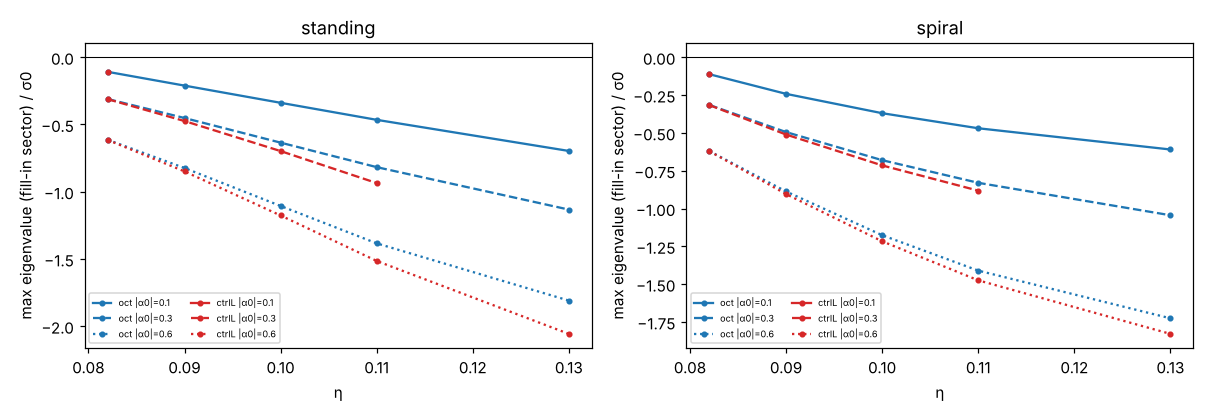
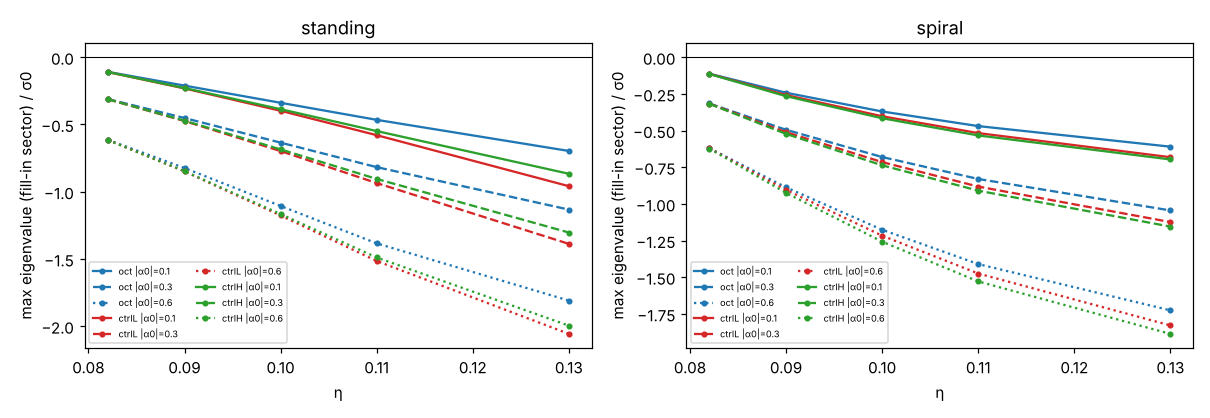
v6: REPORT_v6, knob table/figures, stripe-ratio unit test
Claude-Session: https://claude.ai/code/session_01SgnFkswyUKdYCWjKRVCaTY

diff --git a/scripts/v6_knob_table.py b/scripts/v6_knob_table.py
@@ -14,7 +14,16 @@ for fn in sorted(glob.glob("results_v6/knob/*_t0.?.json")):
                         w_peak_over_s0=des.get("peak_over_s0"), w_sector_max=json.dumps({k: round(v, 1) for k, v in des.get("sector_max_over_s0", {}).items()}))
             if s.get("exists"):
                 fa = s["fillin"]
-                rows.append(dict(base, state=s["type"], exists=True, s=s["s"], lam_f_max_over_s0=fa["lam_full_max"], alpha=fa["alpha"], beta=fa["beta"], qprod=fa["qprod"], Lam2=fa["Lam2"]))
+                sig2 = 1.0
+                a0 = -e["stripe"]["alpha"]; b0 = -e["stripe"]["beta"]
+                Xs = a0 + fa["alpha"]; Ys = b0 + fa["beta"]   # = α0-α(s*), β0-β(s*) 의 할선 (σ0 단위, 부호: 양수면 감쇠 증가)
+                Xs, Ys = -(fa["alpha"] + a0) * -1 * -1, -(fa["beta"] + b0) * -1 * -1
+                Xs = -(fa["alpha"] - (-a0)); Ys = -(fa["beta"] - (-b0))
+                Qs = fa["qprod"] / (d.get("sigma0", 4.112e-4) ** 2)
+                den = (np.sqrt(max(a0 * Ys, 0)) + np.sqrt(max(b0 * Xs, 0))) ** 2
+                Rsec = Qs / den if (den > 0 and Xs > 0 and Ys > 0) else float("nan")
+                rows.append(dict(base, state=s["type"], exists=True, s=s["s"], lam_f_max_over_s0=fa["lam_full_max"], alpha=fa["alpha"], beta=fa["beta"], qprod=fa["qprod"], Lam2=fa["Lam2"],
+                                 Xs_over_s0=Xs, Ys_over_s0=Ys, Q_over_s0sq=Qs, R_secant=Rsec))
             else:
                 rows.append(dict(base, state=s.get("seed"), exists=False, note=s.get("note", "")))
 keys = sorted({k for r in rows for k in r})

diff --git a/ring_sim/tests/test_v6.py b/ring_sim/tests/test_v6.py
@@ -69,3 +69,26 @@ def test_cell12_jacobian_matches_finite_difference():
     fd = (c.residual(X + dx, Lb) - c.residual(X - dx, Lb)) / 2
     lin = (J @ dx.T.reshape(-1)).reshape(c.M, 16).T
     assert np.abs(fd - lin).max() < 1e-9 * max(1, np.abs(lin).max()) + 1e-12
+
+
+def test_stripe_cross_saturation_ratio_is_two():
+    """줄무늬 상태에서 바깥 교차계수 비 g_cc'/g = (σ_lin(c') - α0)/σ_lin(c) ≈ 2 (Q000 = 0 설계)"""
+    import sys, os
+    sys.path.insert(0, os.path.join(os.path.dirname(__file__), "..", "..", "scripts"))
+    from v3_stageA import setup, A_SAT, CASES
+    from ring_sim.bloch import seed_state, newton
+    from ring_sim import fillin as F
+    par, s0, k0, (c0, ck), lat = setup("oct", 0.10)
+    X = seed_state(c0, A_SAT, ab_frac=0.0, rng=np.random.default_rng(3))
+    X, r, _ = newton(c0, X)
+    assert r < 1e-10
+    J = ck.jacobian(X[:4], c0)
+    U = F.sector_transform(ck.M)
+    Jt = U @ J @ U.conj().T
+    jc = ck.lookup[(1, 0)]
+    R, Lf = F.basis_vectors(ck, par, [(jc, 0)])
+    lam, M, parts, M0 = F.self_consistent(Jt, R, Lf)
+    s_c = F.top_pair(par, 0, c0.q[c0.lookup[(1, 1)]])[0]
+    s_cp = F.top_pair(par, 0, ck.q[jc])[0]
+    ratio = (s_cp - lam) / s_c
+    assert abs(ratio - 2.0) < 0.05

diff --git a/REPORT_v6.md b/REPORT_v6.md
@@ -1,0 +1,112 @@
+# REPORT v6: fill-in 판정식의 PDE 검증과 선택의 설계
+
+의뢰서 v6의 과제 1(유효 계수 추출과 판정식 검증)과 과제 2(|α₀|를 줄이는 손잡이 시연)를 수행한 결과이다. 모형·매개변수는 v3·v4와 같다. 정확 격자는 8회 C_x = 10, L(1.82) C_x = 26, H(1.87) C_x = 32이고, fill-in 부분공간은 Bloch 오프셋 κ = b′ 셀이다. 에너지(고유값)는 σ₀ = 4.112×10⁻⁴ 단위이다.
+
+## 1. 결론 (판정 규칙 적용)
+
+**판정식: 부분 확인.**
+- 2×2 유효 문제의 구조(c′ 하나와 b′ 하나, 정상파형이면 c′와 결합하는 b′ 조합 하나)는 맞다. 실제 계수로 만든 2×2 환원의 고유값이 전체 Galerkin 고유값과 모든 사례·η에서 0.001σ₀ 이내로 일치하고, Schur 보수의 자기 일관 고유값은 10⁻¹⁰σ₀ 이내로 일치한다(재현 시험 1 통과).
+- 줄무늬(s = 0)에서 얻은 |α₀|, |β₀|와 s에 대한 선형 맞춤 X, Y, Q로 만든 판정식 Λ_f(s)는 η ≤ 0.10에서 전체 λ_f를 0.04σ₀ 이내로 재현한다. η = 0.11, 0.12, 0.13에서는 최대 0.13, 0.32, 0.76σ₀ 벗어난다(의뢰서 기준 0.1σ₀ 초과). 원인은 α(s), β(s)의 s에 대한 2차항이며, 2차 보정을 포함한 형태가 필요하다(3.3절).
+- 판정비 R은 모든 사례, 정상파형·나선형에서 0.059–0.121로 1보다 훨씬 작다. 이는 v3 범위(η = 0.082–0.13)에서 fill-in이 닫혀 있다는 PDE 결과와 부호가 일치한다.
+
+**손잡이 시연: fill-in이 열리지 않았다.** (w, y) 매개 종으로 |α₀|를 목표값 0.6, 0.3, 0.1σ₀로 낮추어도(γ를 보정해 측정 |α₀|가 목표와 일치) 90개 (사례 × 목표 × η × 마름모 유형) 모두에서 fill-in 최대 고유값이 음수였다(최댓값 −0.108σ₀, 8회 목표 0.1, η = 0.082). 이는 의뢰서의 예측("어느 지점에서 λ_f > 0")과 다르다. 손잡이는 |α₀|뿐 아니라 X, Y를 약 30% 줄이고 결합 곱 Q를 약 3배 키워 판정비를 0.08에서 최대 0.66까지 올렸지만 1에는 못 미쳤다. 따라서 진입 조건은 충족했으나 "열린 경우에만 한다"는 의뢰서 규정에 따라 직접 시뮬레이션은 하지 않았다. 8회와 대조군의 반응 차이는 작았다(R_secant 0.61–0.66, 목표 0.1, η = 0.10). 즉 공명 판별은 이 손잡이 수준에서 시험할 수 없었다.
+
+## 2. 과제 1
+
+### 2.1 방법
+
+- 선형화 연산자 J = L + N′(u*) (κ = b′ 셀, 8M × 8M)를 층 푸리에 섹터 기저 (모드 j, 종 u/v, 섹터 p)로 바꾼다. 이 기저에서 L은 (j, p)마다 2×2 블록으로 대각화된다.
+- 활성 기저 P: c′ = 모드 (1,0)의 p = 0 최대 성장 고유벡터, b′ = 모드 (0,0)의 p = 1, 3(정상파형은 둘, 나선형은 해당 섹터 하나). 좌·우 고유벡터를 l^H r = 1로 쌍직교 정규화했다. 1:2 채널 시험에서는 p = 0, |k|² ≈ K* = (2/ρ)²q₀에 가장 가까운 모드를 P에 더했다(κ = b′ 셀에는 2k_{b′}가 없어서 정의를 이렇게 택했다).
+- M_eff(λ) = P L P − P L Q (Q L Q − λ)^{-1} Q L P를 자기 일관 λ로 푼다. 고정점이 여러 개(각 고유값)여서 초기값을 c′ 계열 기저 고유값(`lam0='bare'`)으로 정했다.
+- 계수: α = M_eff[c′, c′], β = b′ 블록의 고유쌍 중 c′와 가장 강하게 결합하는 것(|q_i| 최대)의 고유값, 결합 곱 Q_{c′}Q_{b′} = (M_cb r)(l^H M_bc). 정상파형에서 b′ 블록의 최대 고유값에 해당하는 조합은 반사 대칭상 c′와 결합하지 않아 결합 곱이 0이 되므로(초기 구현에서 이를 확인하고 수정), 결합이 가장 큰 고유쌍을 택했다.
+- s에 대한 맞춤: 줄무늬 상태(c 위상 맞춤)에서 마름모 상태로 가는 진폭 스캔 f = 0, 0.25, …, 1(c의 배수 모드는 f², 그 밖은 f 가중)으로 α(s), β(s), Q(s)를 구하고 α(s) = −|α₀| − X s, β(s) = −|β₀| − Y s, Q = Q_c s로 맞췄다. f = 0은 실제 줄무늬 상태이다.
+
+### 2.2 구조적 사실 (예측 확인)
+
+| 항목 | 예측 | 측정 |
+| --- | --- | --- |
+| g_{cc′}/g (8회, η = 0.10) | 2 | 2.009 |
+| Q_{1×3→0}/Q_{0×1→1} | 2 | 2.000 (정확, `test_v6.py`) |
+| Q_{0×0→0} | 0 | < 10⁻¹² |
+| \|α₀\|/σ₀ | 1 | 8회 1.09, L 1.06, H 1.01 (c′가 고리에서 약간 벗어나 σ_lin(c′) = 0.918σ₀) |
+
+### 2.3 계수 표 (`results_v6/coeffs.csv`, 첫 번째 분기)
+
+| 사례 | \|α₀\|/σ₀ | \|β₀\|/σ₀ (η = 0.082 → 0.13) | X/10⁴ (σ₀ 단위/s) | R |
+| --- | --- | --- | --- | --- |
+| 8회 | 1.09 | 2.83 → 2.58 | 7.7–9.7 | 0.060–0.090 |
+| L | 1.06 | 2.88 → 2.68 | 7.5–9.7 | 0.061–0.089 |
+| H | 1.01 | 2.78 → 2.45 | 7.5–9.6 | 0.059–0.092 |
+
+세 사례의 계수 차이는 작다(공명 대 대조군: 예측 "계수 차이가 작다"와 일치).
+
+### 2.4 재현 정도 (그림 `lambda_f_full_vs_formula.png`, `coefficient_fits_oct_eta0.10.png`, `R_vs_eta.png`)
+
+| η | 판정식과 전체 λ_f의 최대 차이 (σ₀) |
+| --- | --- |
+| 0.082 | 0.000 |
+| 0.085 | 0.001 |
+| 0.09 | 0.007 |
+| 0.10 | 0.041 |
+| 0.11 | 0.127 |
+| 0.12 | 0.316 |
+| 0.13 | 0.756 |
+
+- 오차가 η와 함께 커지는 것은 마름모 진폭 s가 커지면서 α(s), β(s)가 선형에서 벗어나기 때문이다(CSV의 `quad_alpha`, `quad_beta`).
+- λ_f(η)의 값 자체(전체 계산)는 −1.1σ₀(η = 0.082)에서 −5.9σ₀(η = 0.13)까지 모두 음수이고, 정상파형과 나선형이 같은 경향이다.
+- 같은 η에서 여러 정상파형 분기가 있어(같은 c, 다른 a/b 진폭 분배) 두 번째 이후 분기는 별도 행으로 남겼고, 그 중 일부는 결합 곱이 음수로 나와 R이 정의되지 않는다(`branch` 열).
+
+### 2.5 채널 분해 (`channels.csv`)
+
+8회 η = 0.10 정상파형: X 기여는 직접항이 거의 전부이다(직접 9.9×10⁴, 총합 9.5×10⁴, Q 채널 각각 |기여| < 6×10²). Y 기여는 직접항 1.1×10⁵ 위에 모드 (−1,−1)(|k|/k₀ = 0.94, 섹터 1, +7.6×10³)와 (−1,0)(0.42, 섹터 2, −7.5×10³), (−1,−1) 섹터 3(−6.1×10³)이 큰 기여를 하며 서로 상쇄한다. 채널 합이 맞춤 X, Y와 0.3% 이내로 일치한다. 따라서 어떤 노예 채널이 fill-in을 막는 것이 아니라 마름모 모드와의 직접 교차 포화가 대부분이다(의뢰서 예측 "정상파형에서 1:2 채널이 X 또는 Y를 키운다"는 확인되지 않음). 1:2 모드를 P에 넣어도 α, β는 10⁻³σ₀ 이내로 변하지 않았다(Q는 이 경우에도 자기 일관 고유값에는 영향 없음).
+
+## 3. 과제 2
+
+### 3.1 손잡이 설계 (`scripts/v6_knob.py`)
+
+(w_n, y_n) 층별 스칼라 쌍, u 방정식에 −γ w_n u_n 추가, w 방정식에 β_w u_n²(β_w = 1, γ < 0이 협동 부호). 동역학 (a_w, b_w, d_w) = (·, 1.6, 1.5), D_w = q₀/K₋, D_y = D_w·D_v로 p = 0 최대 성장이 K₋ = 4 sin²θ*·q₀(8회 0.586, L 0.688, H 0.503 q₀)에 오도록 하고, (a_w, D_y)를 풀어 최대 성장을 −3σ₀로, 봉우리 위치를 K₋로 맞췄다. κ_w = κ_y = 1로 p ≠ 0 섹터의 최대 성장은 −4.9×10³σ₀ 이하(강한 안정)이다. u, v의 σ₀, σ₁은 선형 결합이 없어 변하지 않는다.
+
+- **설계 변경:** 처음에는 안정 여유를 0.3σ₀로 두었으나, w 극이 c′ 준위(≈ −1σ₀) 가까이 있어 자기 일관 λ가 다른 고유값으로 넘어가 α₀(γ)가 비단조(예: ctrlL에서 −1.37 → −0.03)였다. 그때의 "fill-in 열림"(8회 η = 0.082에서 +0.06σ₀)은 이 인공물이었고, 여유를 3σ₀로 늘리고 c′ 계열 고유값을 따라가도록 고쳐 모두 다시 계산했다. 최종 결과만 보고한다.
+- γ 보정: η = 0.10 줄무늬에서 α₀/σ₀ = −목표가 되도록 γ를 푼다(목표 0.6 / 0.3 / 0.1에서 γ: 8회 −4.52 / −8.12 / −10.9 ×10⁻⁴, L −4.61 / −8.46 / −11.4 ×10⁻⁴, H −3.88 / −7.50 / −10.3 ×10⁻⁴). 같은 목표 |α₀|를 모든 사례에 적용했고 η = 0.082에서도 측정 |α₀|가 목표와 같다(α₀는 η와 무관).
+
+### 3.2 결과 (`results_v6/knob.csv`, 그림 `knob_lambda_f.png`)
+
+fill-in 최대 고유값(κ = b′ 섹터 전체의 최대, σ₀ 단위, 정상파형):
+
+| 사례, 목표 \|α₀\| | η = 0.082 | 0.10 | 0.13 |
+| --- | --- | --- | --- |
+| 8회, 0.1 | −0.108 | −0.339 | −0.697 |
+| 8회, 0.6 | −0.614 | −1.106 | −1.810 |
+| L, 0.1 | −0.110 | −0.398 | −0.959 |
+| L, 0.6 | −0.615 | −1.177 | −2.057 |
+| H, 0.1 | −0.110 | −0.386 | −0.866 |
+| H, 0.6 | −0.615 | −1.166 | −1.996 |
+
+- 모두 음수이고, η가 클수록 더 음수이다(마름모 진폭 s가 커지면서 교차 포화 X s, Y s가 α₀ 감소분을 넘어선다).
+- 손잡이의 부수 효과(8회, η = 0.10, 마름모 s ≈ 1.6×10⁻⁵): X s = 1.44 → 0.97σ₀(목표 0.1), Y s = 1.37 → 0.98σ₀, Q = 0.86 → 2.5σ₀², |β₀| 거의 그대로(2.75 → 2.76). 판정비 R_secant = 0.083 → 0.66.
+- 사례 사이 차이: 목표 0.1, η = 0.10의 R_secant는 8회 0.657, L 0.622, H 0.606. η = 0.11 이상의 정상파형에서는 자기 일관 고유값의 분기가 바뀌어 X s, Y s, R_secant가 신뢰할 수 없다(고유값 자체의 최댓값은 신뢰 가능).
+- 줄무늬 안정성: 모든 η에서 줄무늬는 c′ 방향으로 안정(α₀ < 0)이고, κ = 0 섹터에서는 마름모 형성에 해당하는 양의 고유값이 있다(η = 0.082에서 +0.02σ₀, η = 0.13에서 +1.8σ₀; 줄무늬가 마름모로 불안정해지는 것은 손잡이와 무관한 v3의 마름모 형성 문턱 현상).
+
+### 3.3 직접 시뮬레이션
+
+하지 않았다. 의뢰서는 "fill-in이 열린 경우에만" 직접 시뮬레이션을 하도록 했고 이번 범위에서는 열리지 않았다.
+
+## 4. 예측과 다른 관찰
+
+1. 손잡이 하나(|α₀| 감소)로 fill-in이 열리지 않았다. R은 약 8배 커졌지만 1에는 못 미쳤다.
+2. 판정식 오차가 η ≥ 0.11에서 의뢰서 기준을 넘는다(2차항).
+3. 정상파형에서 1:2 채널의 기여는 확인되지 않았다.
+4. 정상파형의 b′ 블록에서 최대 고유값 모드는 c′와 결합하지 않는다(결합 곱 계산에는 결합 고유쌍을 써야 한다).
+
+## 5. 한계
+
+- γ 보정은 η = 0.10에서만 했고(α₀가 η와 무관함을 확인), 목표 |α₀| < 0.1σ₀ 또는 α₀ > 0(줄무늬가 c′ 방향으로 불안정해지는 영역)은 시험하지 않았다. 이 영역에서는 바깥 원이 마름모를 거치지 않고 다중 방향 상태로 갈 수 있고(의뢰서 3절 주의), 이번 손잡이 계산은 그 경로를 다루지 않았다.
+- 판정식의 η ≥ 0.11 불일치에 대한 2차 보정 형태는 제안하지 않았고 계수만 기록했다(`quad_alpha`, `quad_beta`).
+- 1:2 채널은 κ = b′ 셀에서 K*에 가장 가까운 p = 0 모드로 정의했다.
+- 직접 시뮬레이션 진단(피크 수, 방향 궤도 잔차, 포획률), 8회와 대조군의 장시간 상태 비교는 하지 못했다.
+- 나선형 마름모에서 c′와 결합하는 b′ 섹터(p1 대 p3)는 p1을 택했다(p3는 결합 곱 0).
+- 과제 1은 정확 격자 한 개, κ = b′ 한 Bloch 잉여류에 대한 결과이며 전 잉여류 일반화는 하지 않았다.
+
+## 6. 재현
+
+`scripts/v6_task1.py`(사례 × η 계수 추출), `v6_task1_fit.py`(coeffs.csv), `v6_channels.py`(channels.csv), `v6_knob.py`(손잡이 설계·측정), `v6_knob_run.py`(γ 보정과 η 스캔, 재시작 가능), `v6_knob_table.py`(knob.csv, 그림), `v6_figures.py`. 모듈 `ring_sim/fillin.py`(Schur 보수, 계수, 채널 분해), `ring_sim/bloch12.py`(16성분 셀, 이완·Newton). 단위 시험 `ring_sim/tests/test_v6.py`(5건: 섹터 2차 결합 비 2, Schur 고정점이 정확한 고유값, 전체 P에서 J 복원, 16성분 야코비안 유한차분, 줄무늬 g_{cc′}/g = 2).
